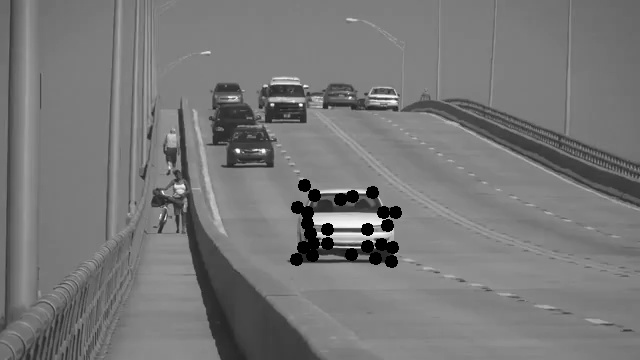
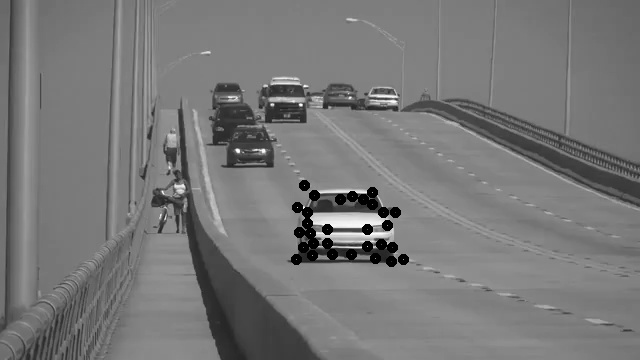
once more

diff --git a/optical_flow.py b/optical_flow.py
@@ -112,7 +112,7 @@ def applyGeometricTransformation(features, new_features, bbox):
     tmp_new_features = new_features.reshape((num_features,-1)) #5,2
     tmp_bbox = bbox.reshape(2,-1)
     dist_thresh = 12
-
+    num_corners = 30 
     for idx in range(num_features):
         old_point = tmp_features[idx]
         new_point = tmp_new_features[idx]
@@ -137,7 +137,7 @@ def applyGeometricTransformation(features, new_features, bbox):
 
     features, bbox = tmp_new_features, new_bbox
 
-
+    #if len(tmp_get_features) 
     return features, bbox
 
 
